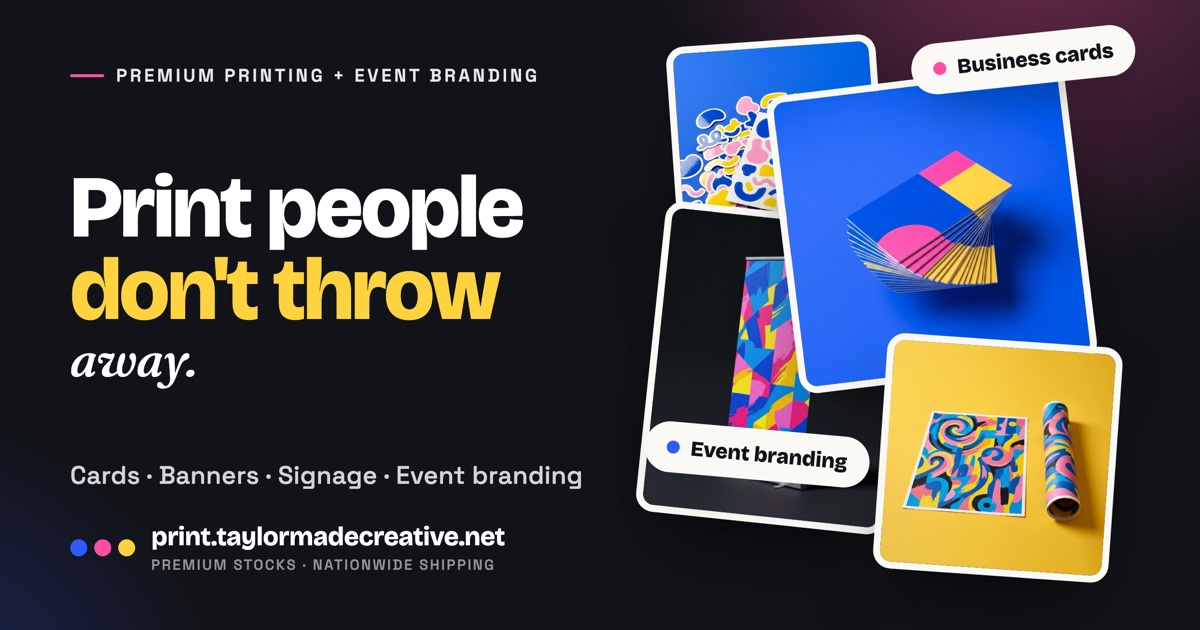
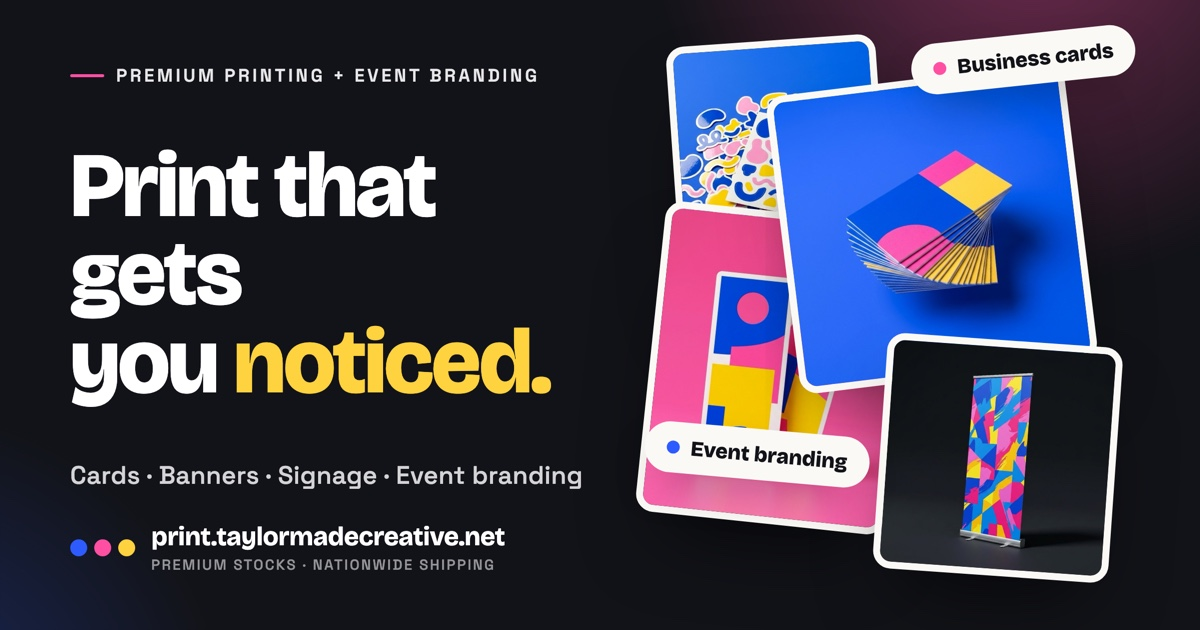
Print: new tagline + add door hangers & tri-fold brochures
- Replace hero tagline with "Print that gets you noticed." (old one was
  confusing); align CTA to "they can't miss."
- Relabel Brochures -> Tri-fold brochures (keeps verified $179/250 price).
- Add Door Hangers product card with a new Nano Banana 2 studio mockup
  (assets/img/print/door-hangers.jpg, matches catalog style). Price shown
  as "Get a quote" pending real 4over wholesale.
- Update marquee + ProfessionalService schema to match.
- Regenerate print OG share card with the new tagline + door hangers in
  the product collage.

Changed region(s): [[0.5242, 0.3317, 0.9558, 0.9349], [0.0617, 0.2413, 0.4625, 0.6635]]

diff --git a/index.html b/index.html
@@ -34,11 +34,12 @@
     { "@type": "Offer", "name": "Flyers", "price": "79", "priceCurrency": "USD", "description": "100 full-color flyers." },
     { "@type": "Offer", "name": "Posters", "price": "35", "priceCurrency": "USD", "description": "18x24 inch posters." },
     { "@type": "Offer", "name": "Postcards", "price": "89", "priceCurrency": "USD", "description": "500 postcards." },
-    { "@type": "Offer", "name": "Brochures", "price": "179", "priceCurrency": "USD", "description": "250 folded brochures." },
+    { "@type": "Offer", "name": "Tri-fold brochures", "price": "179", "priceCurrency": "USD", "description": "250 tri-fold brochures." },
     { "@type": "Offer", "name": "Pop-up banners", "price": "169", "priceCurrency": "USD", "description": "Retractable banner with stand included." },
     { "@type": "Offer", "name": "Step and repeat banners", "price": "399", "priceCurrency": "USD", "description": "8x8 ft branded backdrop." },
     { "@type": "Offer", "name": "Stickers and labels", "price": "59", "priceCurrency": "USD", "description": "100 custom stickers." },
     { "@type": "Offer", "name": "Yard signs", "price": "29", "priceCurrency": "USD", "description": "18x24 inch yard signs." },
+    { "@type": "Offer", "name": "Door hangers", "description": "Custom die-cut door hangers. Quoted per job." },
     { "@type": "Offer", "name": "Event branding", "description": "Matching tents, table throws, pop-up banners, and signage. Quoted per job." }
   ]
 }
@@ -90,10 +91,9 @@
     <div class="hero-content">
       <span class="eyebrow on-color">Premium printing + event branding</span>
       <h1 class="h-display">
-        Print people <span class="hl hl-yellow">don't throw</span>
-        <span class="serif-line">away.</span>
+        Print that gets you<br><span class="hl hl-yellow">noticed.</span>
       </h1>
-      <p class="lead">Business cards, banners, signage, stickers, and fully matching event setups, on premium stocks. Upload your art, approve a proof, and I handle production and shipping.</p>
+      <p class="lead">Business cards, banners, signage, stickers, door hangers, and fully matching event setups, on premium stocks. Upload your art, approve a proof, and I handle production and shipping.</p>
       <div class="hero-actions">
         <a class="btn btn-yellow" href="#quote">Get a print quote <span class="arr">→</span></a>
         <a class="btn btn-ghost-light" href="#products">See products &amp; pricing</a>
@@ -151,8 +151,8 @@
 <!-- ====================== MARQUEE ====================== -->
 <div class="proof" aria-hidden="true">
   <div class="marquee">
-    <span>Business cards</span><span class="sep">✷</span><span>Flyers &amp; postcards</span><span class="sep">✷</span><span>Pop-up banners</span><span class="sep">✷</span><span>Step &amp; repeats</span><span class="sep">✷</span><span>Stickers &amp; labels</span><span class="sep">✷</span><span>Yard signs &amp; signage</span><span class="sep">✷</span><span>Event branding</span><span class="sep">✷</span>
-    <span>Business cards</span><span class="sep">✷</span><span>Flyers &amp; postcards</span><span class="sep">✷</span><span>Pop-up banners</span><span class="sep">✷</span><span>Step &amp; repeats</span><span class="sep">✷</span><span>Stickers &amp; labels</span><span class="sep">✷</span><span>Yard signs &amp; signage</span><span class="sep">✷</span><span>Event branding</span><span class="sep">✷</span>
+    <span>Business cards</span><span class="sep">✷</span><span>Tri-fold brochures</span><span class="sep">✷</span><span>Door hangers</span><span class="sep">✷</span><span>Pop-up banners</span><span class="sep">✷</span><span>Step &amp; repeats</span><span class="sep">✷</span><span>Stickers &amp; labels</span><span class="sep">✷</span><span>Yard signs</span><span class="sep">✷</span><span>Event branding</span><span class="sep">✷</span>
+    <span>Business cards</span><span class="sep">✷</span><span>Tri-fold brochures</span><span class="sep">✷</span><span>Door hangers</span><span class="sep">✷</span><span>Pop-up banners</span><span class="sep">✷</span><span>Step &amp; repeats</span><span class="sep">✷</span><span>Stickers &amp; labels</span><span class="sep">✷</span><span>Yard signs</span><span class="sep">✷</span><span>Event branding</span><span class="sep">✷</span>
   </div>
 </div>
 
@@ -196,11 +196,12 @@
       <article class="pcard"><img class="pc-img" src="assets/img/print/flyers.jpg" alt="Flyers" loading="lazy"><div class="pc-body"><h3>Flyers</h3><span class="pc-price">From $79 <small>100</small></span></div></article>
       <article class="pcard"><img class="pc-img" src="assets/img/print/posters.jpg" alt="Posters" loading="lazy"><div class="pc-body"><h3>Posters</h3><span class="pc-price">From $35 <small>18&times;24"</small></span></div></article>
       <article class="pcard"><img class="pc-img" src="assets/img/print/postcards.jpg" alt="Postcards" loading="lazy"><div class="pc-body"><h3>Postcards</h3><span class="pc-price">From $89 <small>500</small></span></div></article>
-      <article class="pcard"><img class="pc-img" src="assets/img/print/brochures.jpg" alt="Brochures" loading="lazy"><div class="pc-body"><h3>Brochures</h3><span class="pc-price">From $179 <small>250</small></span></div></article>
+      <article class="pcard"><img class="pc-img" src="assets/img/print/brochures.jpg" alt="Tri-fold brochures" loading="lazy"><div class="pc-body"><h3>Tri-fold brochures</h3><span class="pc-price">From $179 <small>250</small></span></div></article>
       <article class="pcard"><img class="pc-img" src="assets/img/print/popup.jpg" alt="Pop-up banners" loading="lazy"><div class="pc-body"><h3>Pop-up banners</h3><span class="pc-price">From $169 <small>stand incl.</small></span></div></article>
       <article class="pcard"><img class="pc-img" src="assets/img/print/step-repeat.jpg" alt="Step and repeat banners" loading="lazy"><div class="pc-body"><h3>Step &amp; repeats</h3><span class="pc-price">From $399 <small>8&times;8 ft</small></span></div></article>
       <article class="pcard"><img class="pc-img" src="assets/img/print/stickers.jpg" alt="Stickers and labels" loading="lazy"><div class="pc-body"><h3>Stickers &amp; labels</h3><span class="pc-price">From $59 <small>100</small></span></div></article>
       <article class="pcard"><img class="pc-img" src="assets/img/print/yard-signs.jpg" alt="Yard signs" loading="lazy"><div class="pc-body"><h3>Yard signs</h3><span class="pc-price">From $29 <small>18&times;24"</small></span></div></article>
+      <article class="pcard"><img class="pc-img" src="assets/img/print/door-hangers.jpg" alt="Door hangers" loading="lazy"><div class="pc-body"><h3>Door hangers</h3><span class="pc-price">Get a quote</span></div></article>
       <article class="pcard pc-more"><div class="pc-body"><h3>And much more</h3><span>Booklets, menus, banners, magnets, and more</span></div></article>
     </div>
 
@@ -339,7 +340,7 @@
 <section class="section cta" id="contact">
   <div class="wrap" data-reveal style="position:relative;z-index:1">
     <span class="eyebrow on-color" style="justify-content:center">Let's print</span>
-    <h2 class="h-display cta-h">Let's make something<br>they <span class="hl hl-yellow">hold onto.</span></h2>
+    <h2 class="h-display cta-h">Let's make something<br>they <span class="hl hl-yellow">can't miss.</span></h2>
     <p class="lead">Tell me about your next print run or event. I will quote it, design it right, and ship it looking like a brand.</p>
     <div class="cta-actions">
       <a class="btn btn-yellow" href="#quote">Get a print quote <span class="arr">→</span></a>
